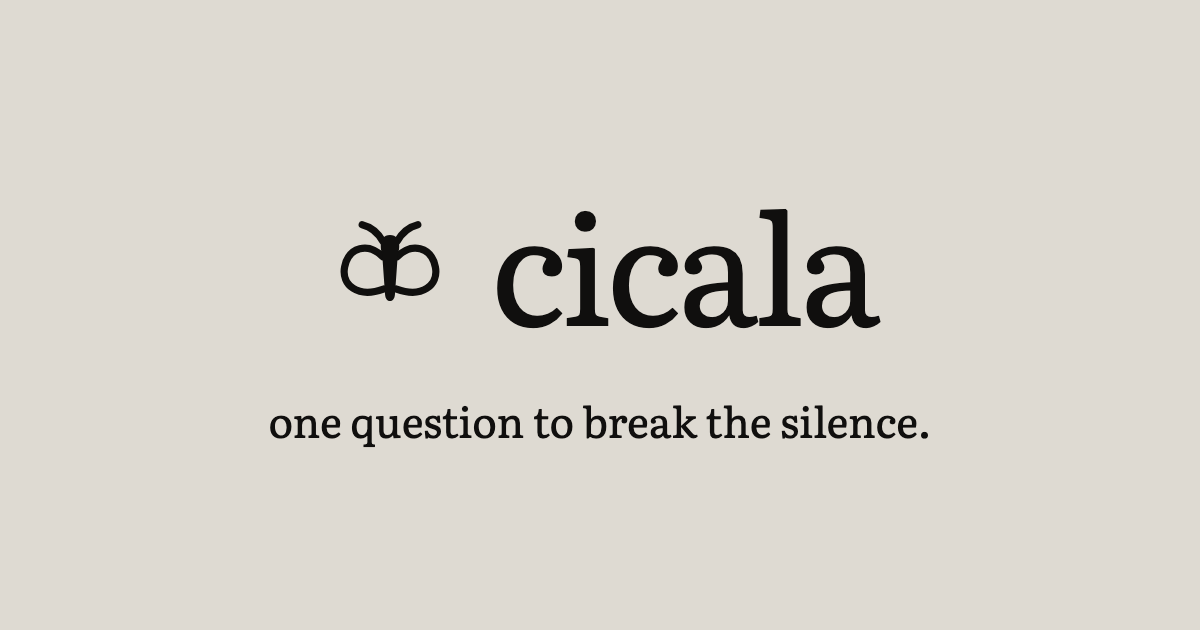
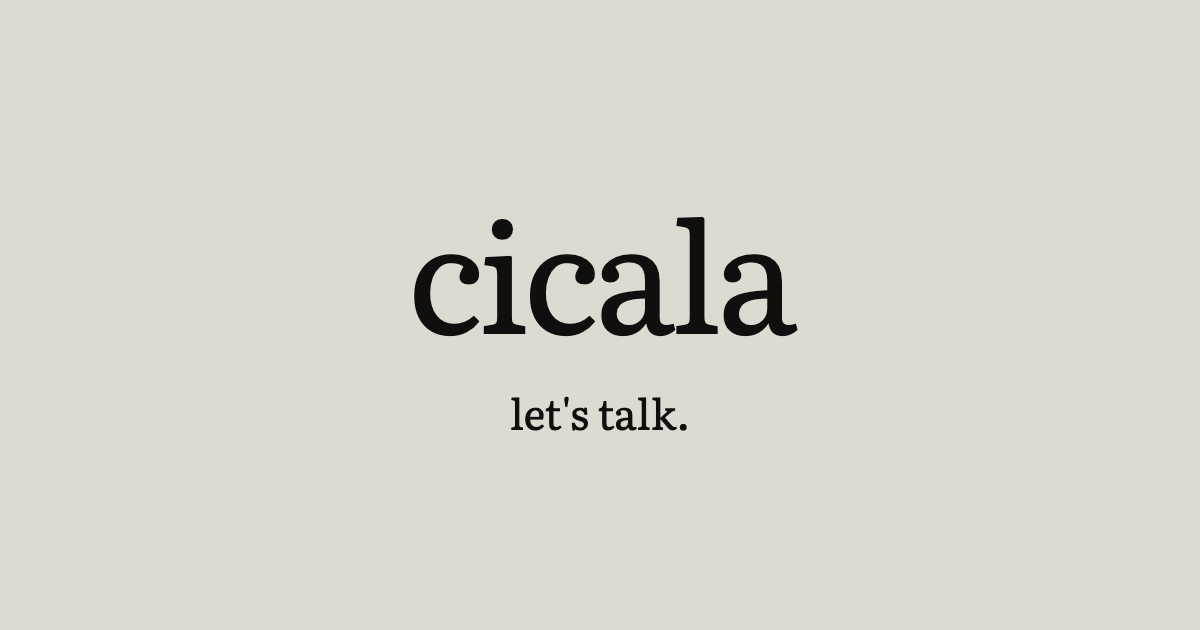
feat(site): drop the symbol, join titles with a dot
The cicada mark added on 2026-08-25 is removed, restoring and extending the
no-symbol part of the 2026-08-16 identity decision. A name and a picture saying
the same thing at once is one of them too many.

The favicon, Apple touch icon, avatar and Open Graph image are now the
wordmark's own lowercase c. They are drawn on a canvas rather than laid out as
HTML because a lowercase c has neither ascender nor descender: centring its
line box leaves it small and sitting low, and only TextMetrics reports where
the ink actually is. cicala-mark.svg is deleted; nothing referenced it.

Em dashes leave user-facing copy, and titles join with the middle dot the
navigation already uses. The home page is "cicala · let's talk", and the Open
Graph image carries the same line. The depth labels move in schema.json, the
GitHub issue form and config.ts together: GitHub drops a prefilled dropdown
value that does not match its declared options character for character, and
the tools suite checks the three agree.

diff --git a/website/src/i18n.ts b/website/src/i18n.ts
@@ -55,7 +55,7 @@ const en = {
   // contribute
   "contribute.title": "contribute",
   "contribute.pitch":
-    "Good questions are written by people. Add yours to the open database — it ships to every device and this site.",
+    "Good questions are written by people. Add yours to the open database. It ships to every device and this site.",
   "contribute.lang": "language",
   "contribute.lang.other": "another language…",
   "contribute.decks": "decks",
@@ -63,9 +63,9 @@ const en = {
   "contribute.decks.required": "Choose at least one deck.",
   "contribute.decks.wild": "Dark and spicy questions belong only in Wild.",
   "contribute.depth": "depth",
-  "contribute.depth.1": "1 — little public exposure",
-  "contribute.depth.2": "2 — a personal construction",
-  "contribute.depth.3": "3 — consequential disclosure",
+  "contribute.depth.1": "1 - little public exposure",
+  "contribute.depth.2": "2 - a personal construction",
+  "contribute.depth.3": "3 - consequential disclosure",
   "contribute.question": "your question",
   "contribute.question.hint": "10–140 characters, one question, ends with ?",
   "contribute.rule.short": "a bit longer: at least 10 characters",
@@ -202,9 +202,9 @@ const de: Record<StringKey, string> = {
   "contribute.decks.required": "Wähle mindestens ein Deck.",
   "contribute.decks.wild": "Düstere und gewagte Fragen gehören nur in Wild.",
   "contribute.depth": "tiefe",
-  "contribute.depth.1": "1 — wenig öffentliche Preisgabe",
-  "contribute.depth.2": "2 — eine persönliche Einordnung",
-  "contribute.depth.3": "3 — folgenreiche Preisgabe",
+  "contribute.depth.1": "1 - wenig öffentliche Preisgabe",
+  "contribute.depth.2": "2 - eine persönliche Einordnung",
+  "contribute.depth.3": "3 - folgenreiche Preisgabe",
   "contribute.question": "deine frage",
   "contribute.question.hint": "10–140 zeichen, eine frage, endet mit ?",
   "contribute.rule.short": "etwas länger: mindestens 10 zeichen",

diff --git a/website/src/config.ts b/website/src/config.ts
@@ -13,9 +13,9 @@ export const PLAYBACK_DEPTH_MAX = 2;
 
 // GitHub issue-form depth values, in schema order.
 export const DEPTH_OPTIONS = [
-  "1 — little public exposure",
-  "2 — a personal construction",
-  "3 — vulnerability, conflict, fear, loss, or consequential disclosure",
+  "1 - little public exposure",
+  "2 - a personal construction",
+  "3 - vulnerability, conflict, fear, loss, or consequential disclosure",
 ] as const;
 
 export const TAGS = [

diff --git a/docs/brand.md b/docs/brand.md
@@ -4,14 +4,13 @@ Cicala is Italian for cicada. Cicadas fill Italian summers with a steady
 background sound; the name gives the object a clear job: make a first voice
 easier, invite reflection, and break silence without becoming the conversation.
 
-## Mark, wordmark, and type
+## Wordmark and type
 
-The identity is a lowercase `cicala` wordmark. The minimal top-view cicada —
-whose two open wings also read as sound moving away from a central body — is the
-square-format mark: it carries the favicon, the avatar, and the Open Graph
-image, where there is no room to read a name. It does not appear beside the
-wordmark. A name and a symbol saying the same thing at the same time is one of
-them too many, and the header has a question to get out of the way of.
+The identity is typographic. There is no symbol: the whole of it is the
+lowercase `cicala` wordmark, and where a square is all there is, the wordmark's
+own lowercase `c` stands for it. A name and a picture saying the same thing at
+once is one of them too many, and the header has a question to get out of the
+way of.
 
 The wordmark is Literata at normal weight with optical kerning and restrained
 negative tracking, over a 50% dither rule the width of the lockup. The rule
@@ -27,9 +26,9 @@ The e-paper renders none of them. The panel draws the CFB bitmap fonts
 (10 × 16, 15 × 24, 20 × 32) with a one-pixel overdraw for weight, so the device
 mirrors the website's tone and not its typeface.
 
-Keep clear space around the mark or the wordmark at least equal to the mark's
-body width. Where a name will not fit, use the mark; never enlarge the wordmark
-enough to compete with a question.
+Keep clear space around the wordmark at least equal to the height of its `c`.
+Where a name will not fit, use the `c` alone; never enlarge the wordmark enough
+to compete with a question.
 
 ## Colour
 
@@ -68,12 +67,14 @@ needs it.
 
 ## Assets
 
-The SVG mark is the editable source. The wordmark stays live text on the web;
-PNG lockups exist for services that cannot load the bundled font. Regenerate all
-raster assets from the checked-in mark and font with `npm run brand-assets` in
-`website/`.
+There is no editable logo source, because there is no logo. The wordmark stays
+live text on the web; the PNGs exist only for services that cannot load the
+bundled font. Regenerate every raster asset from that font with
+`npm run brand-assets` in `website/`. The square assets are drawn on a canvas
+rather than laid out as HTML: a lowercase `c` has neither ascender nor
+descender, so centring its line box leaves it small and sitting low, and only
+`TextMetrics` reports where the ink actually is.
 
-- [cicada mark](https://github.com/giacomomellone/cicala/blob/main/website/public/brand/cicala-mark.svg)
 - [1024 px avatar](https://github.com/giacomomellone/cicala/blob/main/website/public/brand/cicala-avatar-1024.png)
 - [dark transparent wordmark](https://github.com/giacomomellone/cicala/blob/main/website/public/brand/cicala-wordmark-dark.png)
 - [reversed transparent wordmark](https://github.com/giacomomellone/cicala/blob/main/website/public/brand/cicala-wordmark-reversed.png)
@@ -82,7 +83,7 @@ raster assets from the checked-in mark and font with `npm run brand-assets` in
 - [180 px Apple touch icon](https://github.com/giacomomellone/cicala/blob/main/website/public/apple-touch-icon.png)
 - [1200×630 Open Graph image](https://github.com/giacomomellone/cicala/blob/main/website/public/og.png)
 
-The mark and wordmark remain monochrome.
+Every asset is monochrome.
 
 ## Device placement
 
@@ -95,9 +96,9 @@ optional small blind emboss on the underside or a concealed lower edge.
 
 ## Prohibited treatments
 
-Do not add eyes, legs, realistic veining, sound-wave ornaments, a speech bubble,
-or a second symbol to the cicada. Do not set the mark beside the wordmark, put
-the mark in the site header, introduce a brand colour, add
+Do not draw a cicada, a speech bubble, a sound wave, a question mark, or any
+other symbol and set it beside the name. Do not introduce a brand colour, add
 gradients or glow, round a corner the device could not round, distort the
-letterforms, or make the mark larger than the current question. Do not lay the
-dither under a question at any density. The questions remain visually dominant.
+letterforms, or make the wordmark larger than the current question. Do not lay
+the dither under a question at any density. The questions remain visually
+dominant.

diff --git a/docs/decisions.md b/docs/decisions.md
@@ -826,3 +826,23 @@ The rename includes public copy, repository links, package metadata, storage key
 The lowercase Literata wordmark, paper palette, IBM Plex Mono interface type, and restrained layout remain. A minimal top-view cicada mark supersedes the no-symbol part of the 2026-08-16 identity decision. Its open wings can also read as sound leaving a centre. It appears in the site lockup, favicons, avatar, and social asset; the question and the normal device face remain unbranded.
 
 Accepted cost: existing browser storage and prototype NVS settings do not migrate across the namespace change, and the repository cannot update third-party avatars or configure the purchased domain automatically.
+
+## 2026-08-27: The visual system is one bit deep
+
+The website adopts the e-paper's constraint rather than describing it: two tones, no radius, 1 px rules, and an ordered dither where a tint would otherwise go. There is no accent colour, so `--accent` and the rust `#c24a22` are gone and state is carried by inversion, weight, or dither density. A saved question is a filled heart rather than a red one; a fault is heavier and underlined.
+
+Questions move from Literata to Zilla Slab at weight 500, because slab strokes survive at one bit. The wordmark stays Literata over a 50% dither rule, and IBM Plex Mono keeps controls and metadata. The device renders none of them: the panel draws the CFB bitmap fonts, so it mirrors the website's tone and not its typeface.
+
+The dither is one pattern at four exact fractions of the grid (1/2, 1/4, 1/8, 1/16), sized in multiples of one e-paper pixel so the firmware can draw the same geometry. The website shapes it with a gradient mask; `draw_floor()` in the firmware steps down through the same densities instead, because a one-bit panel cannot fade a pattern.
+
+Accepted cost: the panel floor overlaps the text on part of the corpus. The block is centred and the leading cap pushes it outward, so the median clear space below the last line is 17 rows of 122 and the worst case is 10. At `CICALA_PANEL_FLOOR_PCT` = 12 the ramp reaches 15 rows, putting its top inside the descenders of 86 of the 232 shipped questions, at roughly a quarter of full strength. Reserving rows instead would drop those questions to a smaller font, which costs the thing the panel exists for. None of this is measured on glass yet.
+
+## 2026-08-27: The identity returns to type alone
+
+The minimal cicada mark introduced on 2026-08-25 is removed, restoring and extending the no-symbol part of the 2026-08-16 identity decision. `website/public/brand/cicala-mark.svg` and `BrandMark.astro` are deleted, the site header is the wordmark alone, and the favicon, Apple touch icon, avatar and Open Graph image are drawn from the wordmark's own lowercase `c`.
+
+A name and a picture saying the same thing at once is one of them too many, and the header's job is to get out of the question's way. The square assets are rendered on a canvas rather than as HTML because a lowercase `c` has neither ascender nor descender, so centring its line box leaves it small and low, and only `TextMetrics` reports where the ink is.
+
+Em dashes leave user-facing copy for hyphens, and titles join with the same middle dot the navigation uses, so the home page is `cicala · let's talk`. The depth labels change in `questions/schema.json`, `.github/ISSUE_TEMPLATE/new-question.yml` and `website/src/config.ts` together, because GitHub drops a prefilled dropdown value that does not match its declared options character for character.
+
+Accepted cost: third-party avatars already showing the cicada must be replaced by hand, as with any earlier identity change.
